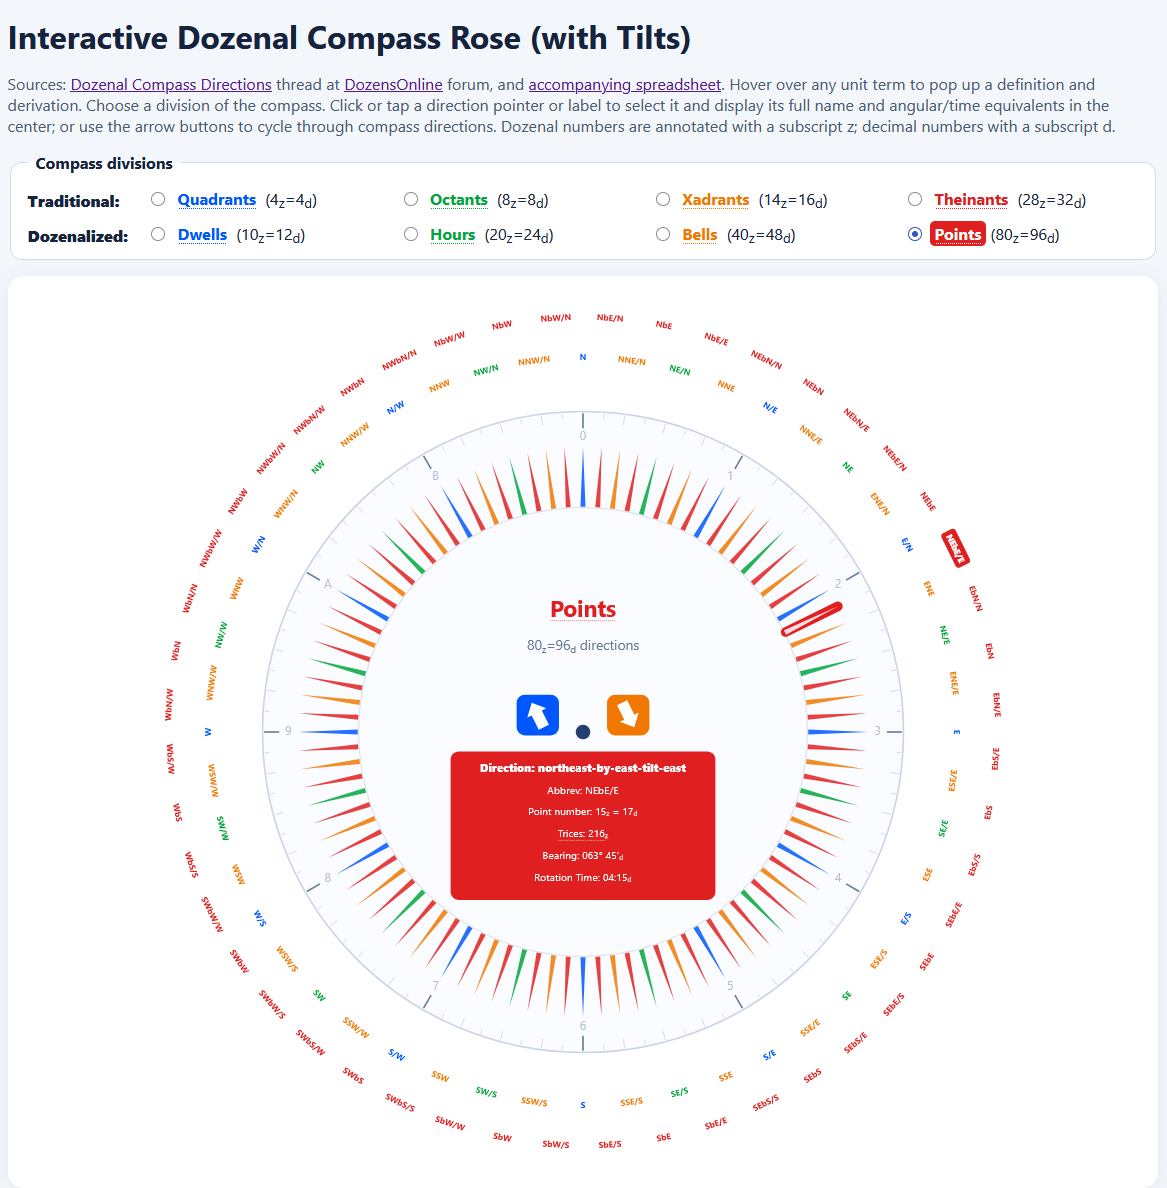
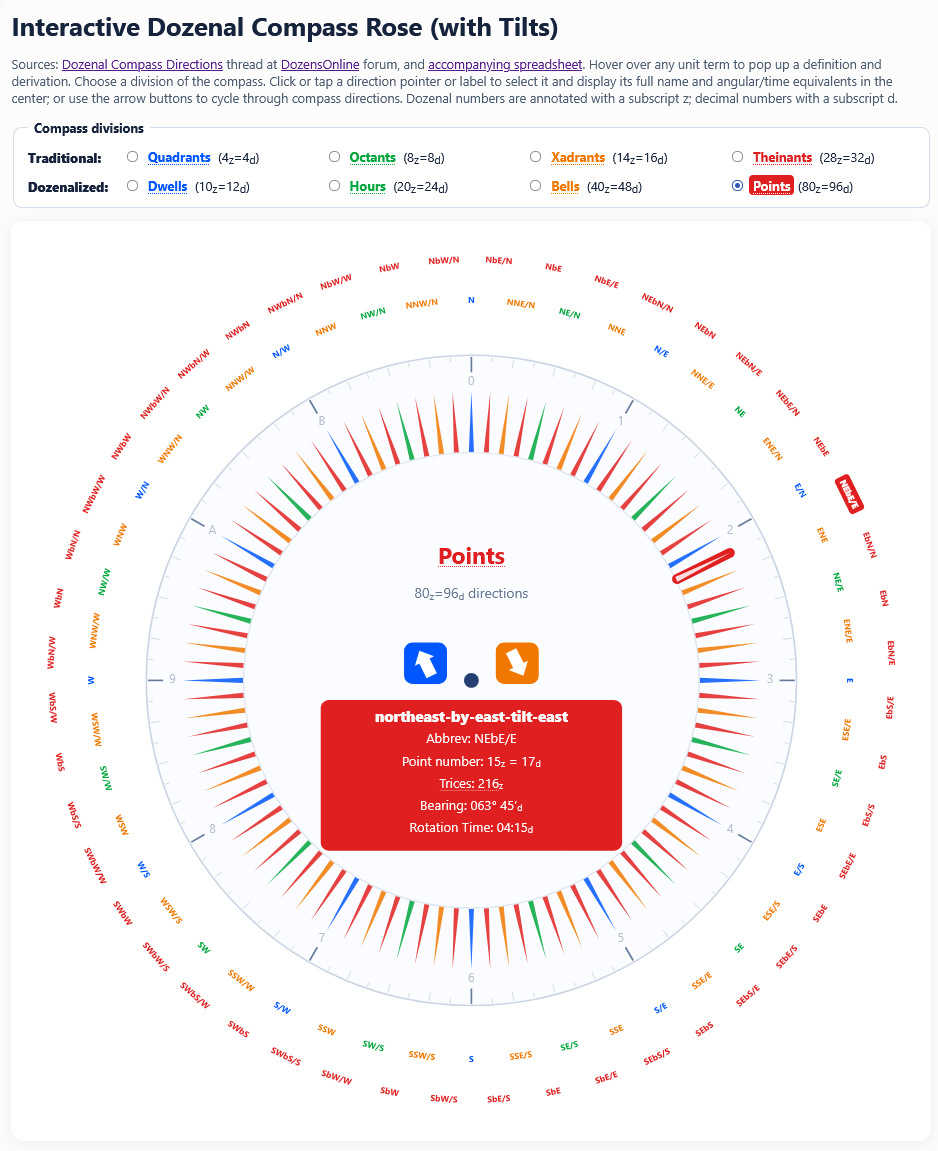
resource-volan-interactive-dozenal-compass-rose: Larger font in details box.

diff --git a/resource-volan/interactive-dozenal-compass-rose.html b/resource-volan/interactive-dozenal-compass-rose.html
@@ -93,7 +93,7 @@ function showTip(p,e,index,level){
   const muted='#ffffff';
   const singular={Quadrants:'Quadrant',Dwells:'Dwell',Octants:'Octant',Hours:'Hour',Xadrants:'Xadrant',Bells:'Bell',Theinants:'Theinant',Points:'Point'}[level];
   const rows=[
-    ['Direction: ',p.name],
+    ['',p.name],
     ['Abbrev: ',p.abbr],
     [singular+' number: ',index.toString(12).toUpperCase().padStart(2,'0')+'z = '+String(index).padStart(2,'0')+'d'],
     ['Trices: ',p.trices+'z'],
@@ -138,6 +138,13 @@ function showTip(p,e,index,level){
     if(last<valueText.length){
       const plain=el('tspan',{'baseline-shift':'baseline','font-size':'100%'},t);
       plain.textContent=valueText.slice(last);
+    }
+    // Keep long tilt names and other values inside the dial's detail box.
+    t.removeAttribute('textLength');
+    t.removeAttribute('lengthAdjust');
+    if(t.getComputedTextLength()>344){
+      t.setAttribute('textLength','344');
+      t.setAttribute('lengthAdjust','spacingAndGlyphs');
     }
   });
 }
@@ -233,9 +240,9 @@ function navigateDirection(delta){
 
 // Embed a persistent direction detail card below the center dot.
 const detail=el('g',{id:'direction-detail','pointer-events':'none'});
-el('rect',{x:386,y:574,width:328,height:184,rx:10,fill:'#0057FF'},detail);
+el('rect',{x:366,y:574,width:368,height:184,rx:10,fill:'#0057FF'},detail);
 // Equal padding above and below the six-line text block.
-for(let i=0;i<6;i++)el('text',{x:550,y:596+i*27,'text-anchor':'middle','dominant-baseline':'middle','font-size':i===0?14:12.8,'font-weight':i===0?750:500},detail);
+for(let i=0;i<6;i++)el('text',{x:550,y:596+i*27,'text-anchor':'middle','dominant-baseline':'middle','font-size':i===0?18:16,'font-weight':i===0?750:500},detail);
 // SVG-native touch-friendly previous/next controls within the inner circle.
 // Keep these outside the detail group so its pointer-events:none doesn't block them.
 for(const [side,x,delta] of [

diff --git a/resource-volan-interactive-dozenal-compass-rose.html b/resource-volan-interactive-dozenal-compass-rose.html
@@ -91,7 +91,7 @@
         <tr>
           <td style="white-space:nowrap; text-align: center; vertical-align: top"><br/>
             <a href="resource-volan/interactive-dozenal-compass-rose.html">
-              <img src="resource-volan-interactive-dozenal-compass-rose.png" width="150" height="150" />
+              <img src="resource-volan-interactive-dozenal-compass-rose.png" width="120" height="150" />
               <br/>Click to open<br/>web page
             </a>
           </td>

diff --git a/resources.html b/resources.html
@@ -94,7 +94,7 @@
         <tr>
           <td style="white-space:nowrap; text-align: center; vertical-align: top"><br/>
             <a href="resource-volan/interactive-dozenal-compass-rose.html">
-              <img src="resource-volan-interactive-dozenal-compass-rose.png" width="150" height="150" />
+              <img src="resource-volan-interactive-dozenal-compass-rose.png" width="120" height="150" />
               <br/>Click to open<br/>web page
             </a>
           </td>
